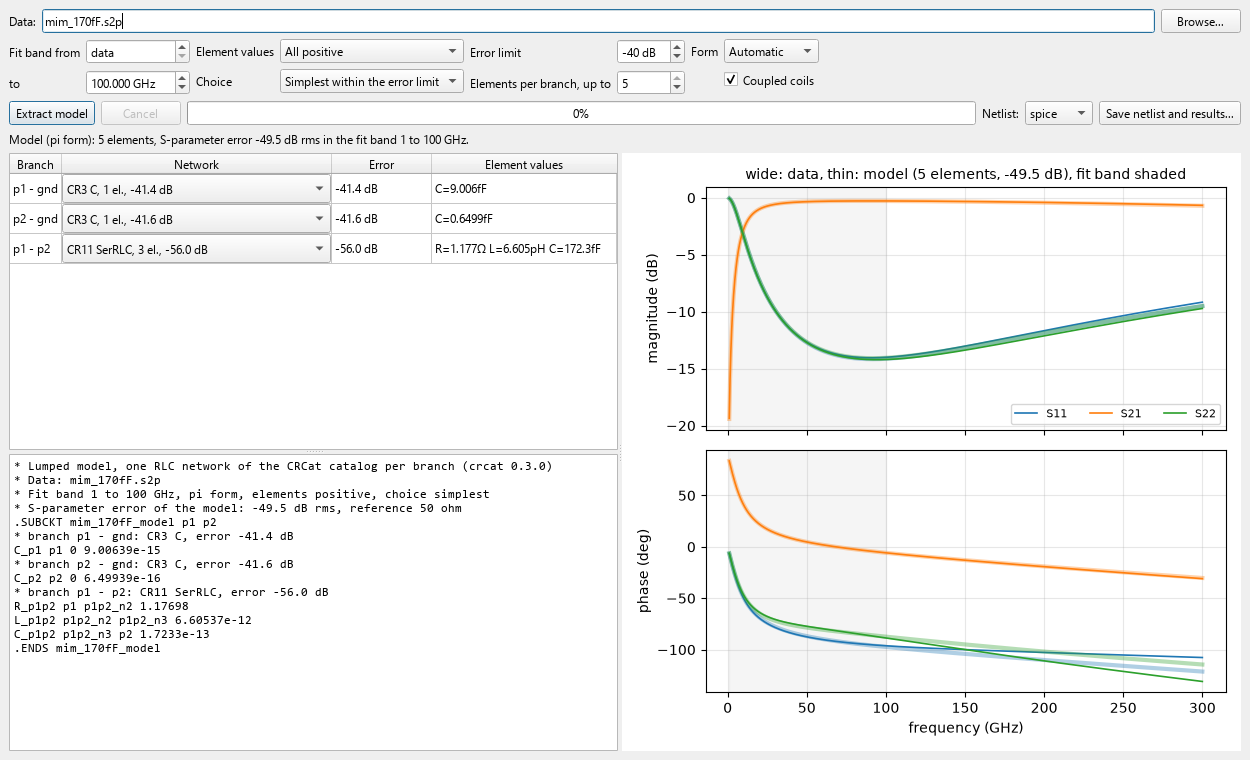
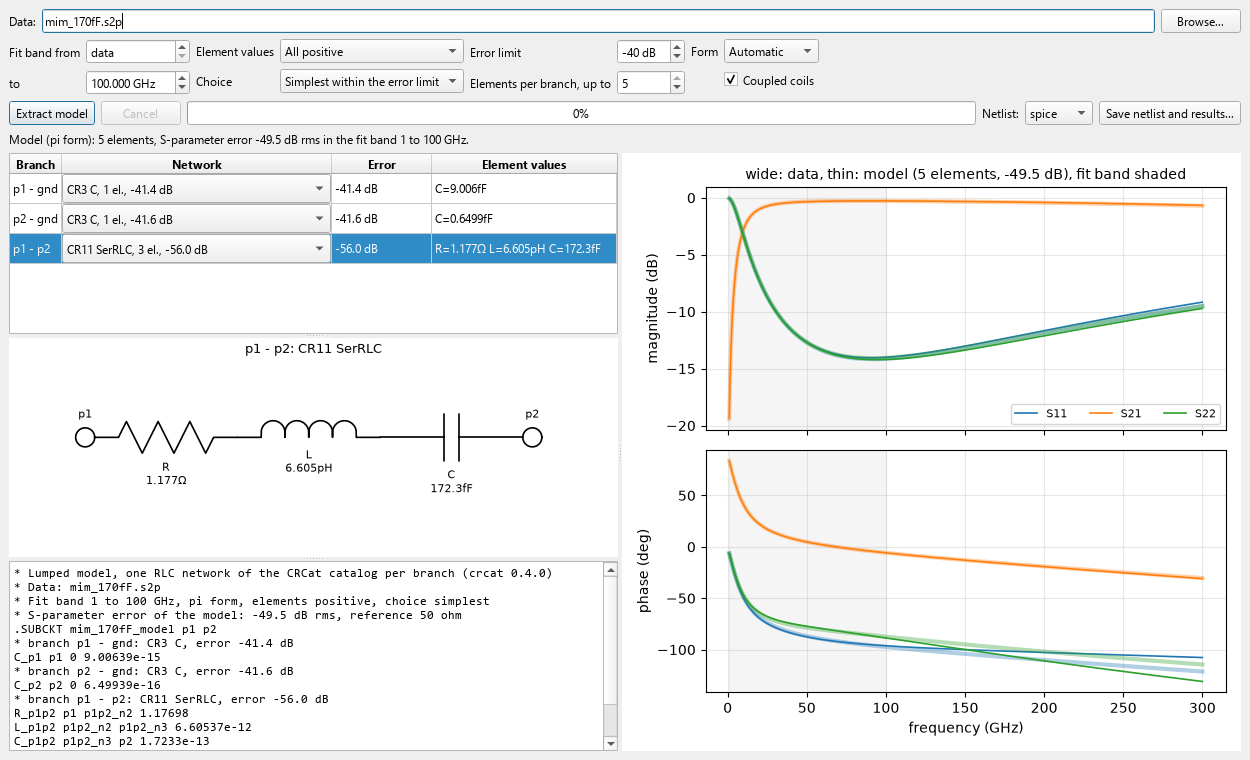
Schematic preview per result row, 0.4.0
crcat.schematic draws a model row with crcat.draw: a branch between its two
nodes, open / short, or a pair of coupled coils with coupling factor and
common resistor. The window shows the selected row under the table and
follows the choice of another candidate; crcat-netlist also writes
_crcat_schematic.png. A tee leg of exactly zero impedance is handled.

diff --git a/src/crcat/schematic.py b/src/crcat/schematic.py
@@ -1,0 +1,150 @@
+"""Schematics of a :class:`crcat.model.Model`: one picture per result row.
+
+Built on :mod:`crcat.draw` (CRCat's layouts). A row is a branch (a catalog network between
+two nodes, or "open" / "short") or a pair of coupled coils. No GUI code here; matplotlib is
+imported only when something is drawn.
+"""
+
+import math
+
+import numpy as np
+
+from . import draw
+from .component import format_value
+from .model import Branch
+
+__all__ = ['draw_row', 'figure_row', 'figure_model', 'row_title']
+
+
+def _terminal(ax, at, node, side, fontsize):
+    """Terminal of a row: ground symbol for node '0', else a labelled circle."""
+    if node == '0':
+        if side > 0:
+            draw.draw_ground(ax, at)
+        else:                                        # ground on the left: mirrored
+            for k, half in enumerate((0.3, 0.2, 0.1)):
+                x = at[0] - 0.11 * (k + 1)
+                ax.plot([x, x], [at[1] - half, at[1] + half], color='k', lw=1.2)
+            ax.plot([at[0] - 0.11, at[0]], [at[1], at[1]], color='k', lw=1.2)
+        return
+    r = 0.1
+    th = np.linspace(0, 2 * math.pi, 41)
+    cx = at[0] + side * r
+    ax.plot(cx + r * np.cos(th), at[1] + r * np.sin(th), color='k', lw=1.2)
+    ax.text(cx, at[1] + 1.8 * r, node, fontsize=fontsize, ha='center', va='bottom')
+
+
+def _frame(ax, xmin, xmax, ymin, ymax):
+    ax.set_xlim(xmin - 0.7, xmax + 0.8)
+    ax.set_ylim(ymin - 1.1, ymax + 0.8)
+    ax.set_aspect('equal')
+    ax.axis('off')
+
+
+def row_title(row):
+    if isinstance(row, Branch):
+        return f'{row.name}: {row.chosen.label}'
+    return f'{row.name}: coupled coils'
+
+
+def _draw_branch(ax, b, fontsize):
+    c = b.chosen
+    if c.is_trivial:
+        _terminal(ax, (0.0, 0.0), b.node1, -1, fontsize)
+        _terminal(ax, (1.5, 0.0), b.node2, 1, fontsize)
+        if c.trivial == 'short':
+            draw.draw_element(ax, 'W', (0.0, 0.0), (1.5, 0.0))
+        ax.text(0.75, -0.25, c.trivial, fontsize=fontsize, ha='center', va='top')
+        _frame(ax, 0, 1.5, 0, 0)
+        return
+    comp = c.component
+    if not draw.has_layout(comp):
+        ax.text(0.5, 0.5, c.values_text(), fontsize=fontsize, ha='center', va='center',
+                transform=ax.transAxes, wrap=True)
+        ax.axis('off')
+        return
+    end = draw.draw_network(ax, comp, fontsize=fontsize)
+    _terminal(ax, (0.0, 0.0), b.node1, -1, fontsize)
+    _terminal(ax, end, b.node2, 1, fontsize)
+    seg = draw.layout(comp)
+    xs = [v for _, p, q in seg for v in (p[0], q[0])]
+    ys = [v for _, p, q in seg for v in (p[1], q[1])]
+    _frame(ax, min(xs), max(xs), min(ys), max(ys))
+
+
+def _draw_coupled(ax, g, fontsize):
+    """Two coils, one above the other, joined at the right; coupling factor between."""
+    i, j, _ = g.ports
+    ends, extents, y0 = [], [], 0.0
+    for port, comp in zip((i, j), g.coils):
+        seg = draw.layout(comp)
+        ys = [v for _, p, q in seg for v in (p[1], q[1])]
+        xs = [v for _, p, q in seg for v in (p[0], q[0])]
+        y0 -= max(ys)                                # top of this coil below the last one
+        end = draw.draw_network(ax, comp, origin=(0.0, y0), fontsize=fontsize)
+        _terminal(ax, (0.0, y0), f'p{port}', -1, fontsize)
+        ends.append(end)
+        extents.append((max(xs), y0 + min(ys), y0 + max(ys)))
+        y0 += min(ys) - 2.0                          # room for labels and the k text
+    xr = max(e[0] for e in ends) + 0.4
+    for e in ends:                                   # join the coil ends
+        draw.draw_element(ax, 'W', e, (xr, e[1]))
+    draw.draw_element(ax, 'W', (xr, ends[0][1]), (xr, ends[1][1]))
+    ym = 0.5 * (ends[0][1] + ends[1][1])
+    text = f'k = {g.k:.3g}'
+    if any(sum(sym[0] == 'L' for sym in comp.network.symVn) > 1 for comp in g.coils):
+        names = [comp.network.symVn[n] for comp, n in zip(g.coils, g.index)]
+        text += f'  ({names[0]} above, {names[1]} below)'    # which inductors are coupled
+    ax.text(0.0, 0.5 * (extents[0][1] + extents[1][2]) - 0.35, text, fontsize=fontsize,
+            ha='left', va='center')
+    x = xr
+    if g.rc > 0:
+        draw.draw_element(ax, 'R', (xr, ym), (xr + 1.5, ym), 'Rc\n' + format_value(g.rc, 'R'),
+                          fontsize=fontsize)
+        x = xr + 1.5
+    else:
+        draw.draw_element(ax, 'W', (xr, ym), (xr + 0.3, ym))
+        x = xr + 0.3
+    _terminal(ax, (x, ym), g.node_k, 1, fontsize)
+    _frame(ax, 0, x, min(e[1] for e in extents), max(e[2] for e in extents))
+
+
+def draw_row(ax, row, fontsize=8, title=True):
+    """Draw one result row (a Branch or a Coupled) on the axes."""
+    ax.clear()
+    if isinstance(row, Branch):
+        _draw_branch(ax, row, fontsize)
+    else:
+        _draw_coupled(ax, row, fontsize)
+    if title:
+        ax.set_title(row_title(row), fontsize=fontsize + 1)
+
+
+def figure_row(row, fig=None):
+    if fig is None:
+        from matplotlib.figure import Figure
+        fig = Figure(figsize=(6, 2.6))
+    fig.clear()
+    draw_row(fig.subplots(), row)
+    fig.tight_layout()
+    return fig
+
+
+def figure_model(model, fig=None, columns=3):
+    """All rows of a model in a grid, each with its nodes labelled."""
+    rows = model.rows()
+    cols = min(columns, len(rows))
+    nrows = math.ceil(len(rows) / cols)
+    if fig is None:
+        from matplotlib.figure import Figure
+        fig = Figure(figsize=(4.6 * cols, 2.8 * nrows))
+    fig.clear()
+    axes = np.atleast_1d(fig.subplots(nrows, cols)).ravel()
+    for ax in axes[len(rows):]:
+        ax.axis('off')
+    for ax, row in zip(axes, rows):
+        draw_row(ax, row)
+    fig.suptitle(f'{model.source or "model"}: {model.form} form, {model.n_elements()} '
+                 f'elements, error {model.error_db():.1f} dB', fontsize=10)
+    fig.tight_layout()
+    return fig

diff --git a/src/crcat/gui/main_window.py b/src/crcat/gui/main_window.py
@@ -14,6 +14,7 @@ from PySide6.QtWidgets import (QCheckBox, QComboBox, QDoubleSpinBox, QFileDialog
 from .. import __version__, data, model, netlist
 from ..cli_netlist import write_outputs
 from ..plots import compare
+from ..schematic import draw_row
 from .worker import ExtractWorker
 
 MAX_ALTERNATIVES = 25
@@ -122,9 +123,18 @@ class MainWindow(QMainWindow):
         mono.setStyleHint(QFont.StyleHint.Monospace)
         self.netlist_view.setFont(mono)
         self.netlist_view.setLineWrapMode(QPlainTextEdit.LineWrapMode.NoWrap)
+        self.table.setSelectionBehavior(QTableWidget.SelectionBehavior.SelectRows)
+        self.table.setSelectionMode(QTableWidget.SelectionMode.SingleSelection)
+        self.table.currentCellChanged.connect(lambda *_: self._show_schematic())
+        self.schematic = Figure(figsize=(6, 2.4))
+        self.schematic_canvas = FigureCanvasQTAgg(self.schematic)
+        self.schematic_canvas.setMinimumHeight(170)
+        self.schematic_canvas.setToolTip('Schematic of the selected row')
         left = QSplitter(Qt.Orientation.Vertical)
         left.addWidget(self.table)
+        left.addWidget(self.schematic_canvas)
         left.addWidget(self.netlist_view)
+        left.setSizes([190, 230, 200])
         self.figure = Figure(figsize=(6, 5))
         self.canvas = FigureCanvasQTAgg(self.figure)
         split = QSplitter(Qt.Orientation.Horizontal)
@@ -253,6 +263,7 @@ class MainWindow(QMainWindow):
             self.table.setItem(row, 3, QTableWidgetItem(''))
         self.table.resizeColumnToContents(0)
         self.table.setColumnWidth(1, 270)
+        self.table.setCurrentCell(0, 0)
 
     def _choose(self, row, index):
         if self.model is not None and index >= 0:
@@ -272,8 +283,25 @@ class MainWindow(QMainWindow):
             text += '\nWarning: ' + '\nWarning: '.join(warnings)
         self.status.setText(text)
         self._show_netlist()
+        self._show_schematic()
         compare(m, self.network, self.figure)
         self.canvas.draw_idle()
+
+    def schematic_row(self):
+        """The result row whose schematic is shown (the selected one), or None."""
+        if self.model is None:
+            return None
+        rows = self.model.rows()
+        k = self.table.currentRow()
+        return rows[k] if 0 <= k < len(rows) else rows[0]
+
+    def _show_schematic(self):
+        row = self.schematic_row()
+        self.schematic.clear()
+        if row is not None:
+            draw_row(self.schematic.subplots(), row)
+            self.schematic.tight_layout()
+        self.schematic_canvas.draw_idle()
 
     def subckt_name(self):
         return netlist.subckt_name(pathlib.Path(self._loaded).stem + '_model')

diff --git a/tests/test_schematic.py b/tests/test_schematic.py
@@ -1,0 +1,47 @@
+"""Schematics of model rows: branches, open / short, coupled coils."""
+
+import pytest
+
+pytest.importorskip('matplotlib')
+
+from crcat import model, schematic  # noqa: E402
+from crcat.draw import save  # noqa: E402
+from test_model import TEE, TWO_PORT, make_network, make_tee, make_transformer  # noqa: E402
+
+
+def texts(fig):
+    return [t.get_text() for ax in fig.axes for t in ax.texts]
+
+
+def test_branch_rows(tmp_path):
+    m = model.extract(make_network(2, TWO_PORT), model.Options(pick='best'))
+    fig = schematic.figure_row(m.rows()[2])
+    assert fig.axes[0].get_title() == 'p1 - p2: CR7 SerRL'
+    assert {'p1', 'p2', 'R\n2\u03a9', 'L\n400pH'} <= set(texts(fig))
+    fig = schematic.figure_model(m)
+    assert [ax.get_title() for ax in fig.axes] == ['p1 - gnd: CR3 C', 'p2 - gnd: CR8 SerRC',
+                                                   'p1 - p2: CR7 SerRL']
+    assert 'gnd' not in texts(fig)                         # ground is a symbol, not a label
+    save(fig, tmp_path / 'model.png')
+    assert (tmp_path / 'model.png').stat().st_size > 3000
+
+
+def test_open_and_short_rows():
+    m = model.extract(make_tee(None, TEE[1], TEE[2]), model.Options(form='tee', pick='best'))
+    assert m.branches[0].chosen.label == 'short'
+    fig = schematic.figure_model(m)
+    assert 'short' in texts(fig) and 'c' in texts(fig)
+    m = model.extract(make_network(2, {(1, 2): TWO_PORT[(1, 2)]}), model.Options(pick='best'))
+    assert [b.chosen.label for b in m.branches[:2]] == ['open', 'open']
+    assert texts(schematic.figure_model(m)).count('open') == 2
+
+
+def test_coupled_row():
+    m = model.extract(make_transformer(0.3e-9, 0.3e-9, -0.4, 1.0, 1.0, rc=0.5),
+                      model.Options(form='pi', pick='best'))
+    g = m.couplings[0]
+    fig = schematic.figure_row(g)
+    t = texts(fig)
+    assert fig.axes[0].get_title() == 'p1, p2 - gnd: coupled coils'
+    assert any(x.startswith('k = -0.4') for x in t) and 'Rc\n500m\u03a9' in t
+    assert {'p1', 'p2'} <= set(t)

diff --git a/tests/test_gui.py b/tests/test_gui.py
@@ -42,19 +42,27 @@ def test_gui_extract_and_save(app, tmp_path):
     assert win.table.rowCount() == 3 and win.save_button.isEnabled()
     assert win.model.error_db() < -150 and 'Model (pi form): 5 elements' in win.status.text()
     assert '.SUBCKT dut_model p1 p2' in win.netlist_view.toPlainText()
+    # the schematic shows the selected row
+    def shown():
+        return win.schematic.axes[0].get_title()
+    assert win.schematic_row() is win.model.rows()[0] and shown() == 'p1 - gnd: CR3 C'
+    win.table.setCurrentCell(2, 0)
+    assert shown() == 'p1 - p2: CR7 SerRL'
+    assert 'L\n400pH' in [t.get_text() for t in win.schematic.axes[0].texts]
     # another candidate for the series branch: table, netlist and error follow
     combo = win.table.cellWidget(2, 1)
     assert combo.count() > 1
     before = win.netlist_view.toPlainText()
     combo.setCurrentIndex(combo.count() - 1)
     assert win.netlist_view.toPlainText() != before and win.model.error_db() > -150
+    assert shown() != 'p1 - p2: CR7 SerRL'                 # the schematic follows too
     combo.setCurrentIndex(0)
-    assert win.netlist_view.toPlainText() == before
+    assert win.netlist_view.toPlainText() == before and shown() == 'p1 - p2: CR7 SerRL'
     win.format.setCurrentIndex(win.format.findData('spectre'))
     assert 'subckt dut_model (p1 p2)' in win.netlist_view.toPlainText()
     files = win.save_to(tmp_path / 'out')
     assert {p.name for p in files} == {'dut_crcat.scs', 'dut_crcat.s2p', 'dut_crcat.json',
-                                       'dut_crcat.png'}
+                                       'dut_crcat.png', 'dut_crcat_schematic.png'}
     win.close()
 
 

diff --git a/src/crcat/model.py b/src/crcat/model.py
@@ -39,6 +39,7 @@ PICK = ('simplest', 'best')
 FORM = ('auto', 'pi', 'tee')
 EQUAL_ERROR = 1e-10      # RMS |S difference| below which two candidates count as equal
 SHORT_OHM = 1e-6         # resistor written for a shorted leg that cannot be merged away
+SHORT_SIEMENS = 1e12     # admittance standing in for a series leg of zero impedance
 K_MAX = 0.999            # largest coupling factor accepted
 
 
@@ -666,8 +667,10 @@ def _extract_tee(d):
             legs = [1 / (z[:, 0, 0] - z[:, 0, 1]), 1 / (z[:, 1, 1] - z[:, 0, 1]), 1 / z[:, 0, 1]]
     except np.linalg.LinAlgError:
         return None
-    if not all(np.all(np.isfinite(v)) for v in legs):
+    if not np.all(np.isfinite(z)) or not np.all(np.isfinite(legs[2])):
         return None
+    for v in legs[:2]:                           # a series leg of exactly zero impedance
+        v[~np.isfinite(v)] = SHORT_SIEMENS
     branches = [Branch('p1', 'c', 'p1c', d.f, legs[0], 'short'),
                 Branch('p2', 'c', 'p2c', d.f, legs[1], 'short'),
                 Branch('c', '0', 'c', d.f, legs[2], 'open')]

diff --git a/src/crcat/cli_netlist.py b/src/crcat/cli_netlist.py
@@ -10,7 +10,7 @@ from .component import use_ascii_units
 
 
 def write_outputs(m, network, outdir, base, formats, name, plot=True):
-    """Write netlist(s), model response, JSON and plot; return the list of files."""
+    """Write netlist(s), model response, JSON, plot and schematic; return the files."""
     outdir = pathlib.Path(outdir)
     outdir.mkdir(parents=True, exist_ok=True)
     files = []
@@ -30,6 +30,12 @@ def write_outputs(m, network, outdir, base, formats, name, plot=True):
         fig = compare(m, network)
         FigureCanvasAgg(fig)
         p = outdir / f'{base}_crcat.png'
+        fig.savefig(p, dpi=120)
+        files.append(p)
+        from .schematic import figure_model
+        fig = figure_model(m)
+        FigureCanvasAgg(fig)
+        p = outdir / f'{base}_crcat_schematic.png'
         fig.savefig(p, dpi=120)
         files.append(p)
     return files

diff --git a/tests/test_model.py b/tests/test_model.py
@@ -321,7 +321,7 @@ def test_cli(tmp_path, capsys):
     assert 'model (pi form): 5 elements' in out
     files = {p.name for p in (tmp_path / 'out').iterdir()}
     assert files == {'dut_crcat.sp', 'dut_crcat.scs', 'dut_crcat.s2p', 'dut_crcat.json',
-                     'dut_crcat.png'}
+                     'dut_crcat.png', 'dut_crcat_schematic.png'}
     d = json.loads((tmp_path / 'out' / 'dut_crcat.json').read_text())
     assert d['ports'] == 2 and len(d['branches']) == 3 and d['error_db'] < -100
     back = skrf.Network(str(tmp_path / 'out' / 'dut_crcat.s2p'))

diff --git a/README.md b/README.md
@@ -14,6 +14,11 @@ The theory is in J. C. Rautio, "Direct Least-Squares Rational-Polynomial Lumped-
 Extraction and Group Theory," IEEE Journal of Microwaves, 2025,
 doi:[10.1109/JMW.2025.3598986](https://doi.org/10.1109/JMW.2025.3598986).
 
+This is the `netlist-tool` branch: the port of CRCat (branch `main`) plus a tool on top of
+it that turns S-parameter data into a SPICE or Spectre netlist, at the command line or in a
+small window. Everything under [From S-parameters to a netlist](#from-s-parameters-to-a-netlist)
+is on this branch only.
+
 No MATLAB is needed: the catalog was converted from CRCat's `.mat` files to JSON (see
 [The catalog](#the-catalog)), and the numerics use mpmath instead of MATLAB's variable
 precision arithmetic.
@@ -66,13 +71,17 @@ C_p1p2 p1p2_n3 p2 1.7233e-13
 ```
 
 Written next to the input file: the netlist (`_crcat.sp`; with `--format spectre` or `both`
-also `_crcat.scs`), the S-parameters of the model (`_crcat.sNp`), the result as JSON and a
-plot of data against model.
+also `_crcat.scs`), the S-parameters of the model (`_crcat.sNp`), the result as JSON, a
+plot of data against model and the schematics of all branches (`_crcat_schematic.png`).
 
 ![crcat-gui](doc/gui.png)
 
 In the window, the Network column lists the other networks tried for each branch; choosing
-one updates netlist, error and plot at once.
+one updates netlist, error, schematic and plot at once. The panel under the table shows
+the schematic of the selected row with its element values; coupled coils are drawn as a
+pair with their coupling factor:
+
+![coupled coils in crcat-gui](doc/gui_coupled.png)
 
 ### Tee form
 
@@ -258,7 +267,7 @@ custom catalog whose name does not start with a known topology have no layout, a
 | `CRSprout` | `crcat.sprout.sprout` |
 | `CRCat.Draw`, `DrawArray`, `DrawRLC` | `crcat.draw` (`figure`, `figure_array`, `draw_network`) |
 | `SnP` (`Get`, `Pull`, `AddNoise`) | scikit-rf, `crcat.data.pull`, `seed(noise_floor_db=...)` |
-| (not in CRCat) | `crcat.model.extract`, `crcat.netlist`, `crcat-netlist`, `crcat-gui` |
+| (not in CRCat, this branch) | `crcat.model.extract`, `crcat.netlist`, `crcat.schematic`, `crcat-netlist`, `crcat-gui` |
 
 Not ported: generating the catalog and its equations (`FillCat_*`, MATLAB `solve`),
 `CRFitClean`, and the interactive prompts of `CRSeed`. Networks can therefore not be added to the custom catalog in Python yet.
@@ -286,7 +295,8 @@ Not ported: generating the catalog and its equations (`FillCat_*`, MATLAB `solve
 - **The default catalog** is base + custom without the transforms between base and custom
   networks (CRCat recomputes those).
 - The 35 base networks whose synthesis equations are all zero are treated as having none.
-- Added: the filter for models with positive real element values (`best(physical=True)`).
+- Added on this branch: the filter for models with positive real element values
+  (`best(physical=True)`).
 
 ## The catalog
 
